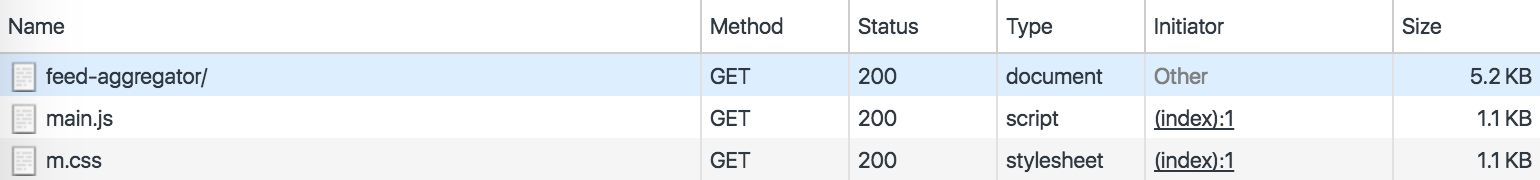
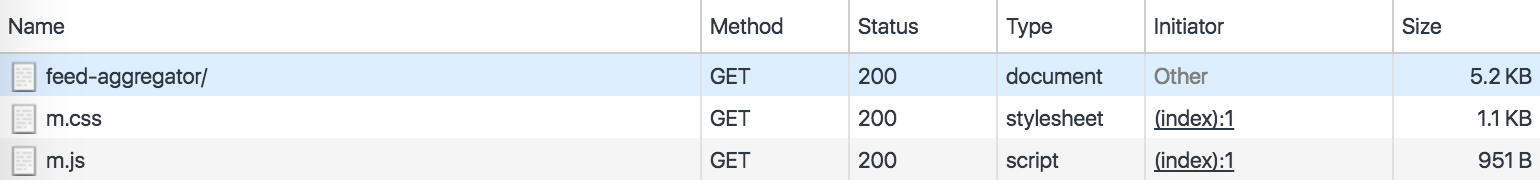
Fixed minified JS and added new image

diff --git a/j/m.js b/j/m.js
@@ -1,2 +1,2 @@
-(function(a){function f(b){var e=a.createElement("script");e.src=b;a.body.appendChild(e)}var g="http://ajax.googleapis.com/ajax/services/feed/load?v=1.0&num=-1&userip="+ip+"&q=";[].forEach.call(a.querySelectorAll("ul[data-u]"),function(b,e){var a="_"+e;window[a]=function(a){var c=[];a.responseData.feed.entries.forEach(function(a){var d=/src="(.*?)"/gi.exec(a.content),b=/^(.*?\d{4})/gi.exec(a.publishedDate);c.push("<li>");d&&d[1]&&!/feeds\.feedburner\.com/i.test(d[1])&&!/advertisement/i.test(d[1])?
-c.push("<h3 style=\"background-image:url('",d[1],"');\">"):c.push("<h3>");c.push('<a href="',a.link,'" class=e>',a.title,'</a></h3><p><a href="',a.link,'" class=e>',a.contentSnippet,"</a><time>",b[1]?b[1]:"","</time></p></li>")});c.length&&(b.innerHTML=c.join(""))};f(g+encodeURIComponent(b.getAttribute("data-u"))+"&callback="+a)});f("j/modal.min.js");f("j/extra.min.js")})(document);
+(function(a){function e(c){var d=a.createElement("script");d.src=c;a.body.appendChild(d)}var f="http://ajax.googleapis.com/ajax/services/feed/load?v=1.0&num=-1&userip="+ip+"&q=";[].forEach.call(a.querySelectorAll("ul[data-u]"),function(c,d){var a="_"+d;window[a]=function(a){var b=[];a.responseData.feed.entries.forEach(function(a){img=/src="(.*?)"/gi.exec(a.content);publishedDate=/^(.*?\d{4})/gi.exec(a.publishedDate);b.push("<li>");img&&img[1]&&!/feeds\.feedburner\.com/i.test(img[1])&&!/advertisement/i.test(img[1])?
+b.push("<h3 style=\"background-image:url('",img[1],"');\">"):b.push("<h3>");b.push('<a href="',a.link,'" class=e>',a.title,'</a></h3><p><a href="',a.link,'" class=e>',a.contentSnippet,"</a><time>",publishedDate[1]?publishedDate[1]:"","</time></p></li>")});b.length&&(c.innerHTML=b.join(""))};e(f+encodeURIComponent(c.getAttribute("data-u"))+"&callback="+a)});e("j/modal.min.js");e("j/extra.min.js")})(document);

diff --git a/index.php b/index.php
@@ -78,4 +78,4 @@ foreach ($blogs as $site => $url) {
 	flush();
 }
 echo "</main>";
-?><script>ip='<?=$_SERVER['REMOTE_ADDR'];?>';</script><script src="j/main.js"></script></body></html>
+?><script>ip='<?=$_SERVER['REMOTE_ADDR'];?>';</script><script src="j/m.js"></script></body></html>
